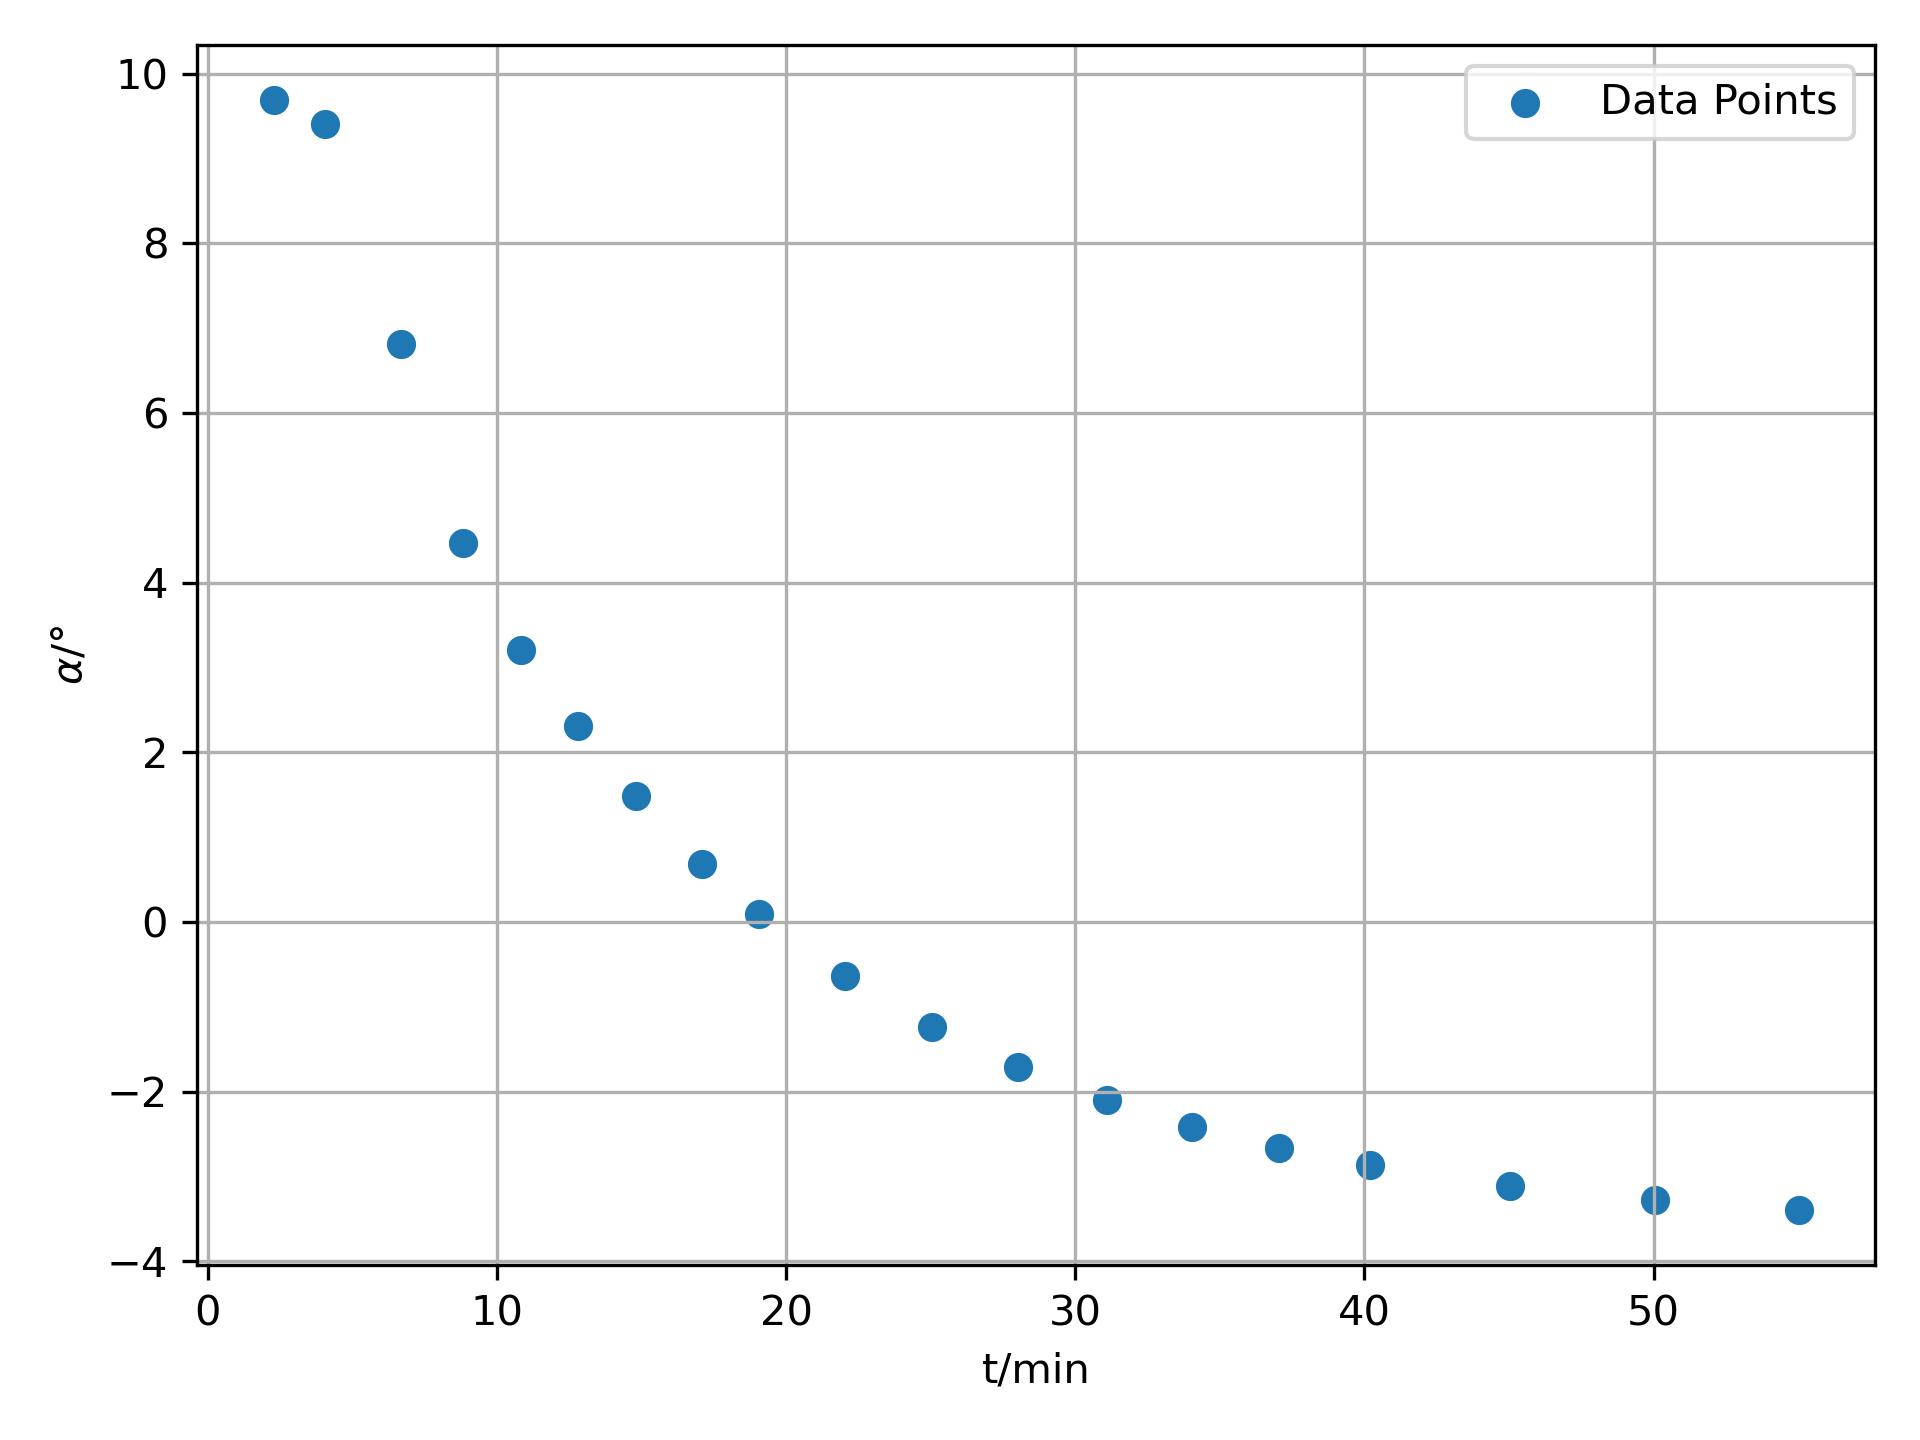
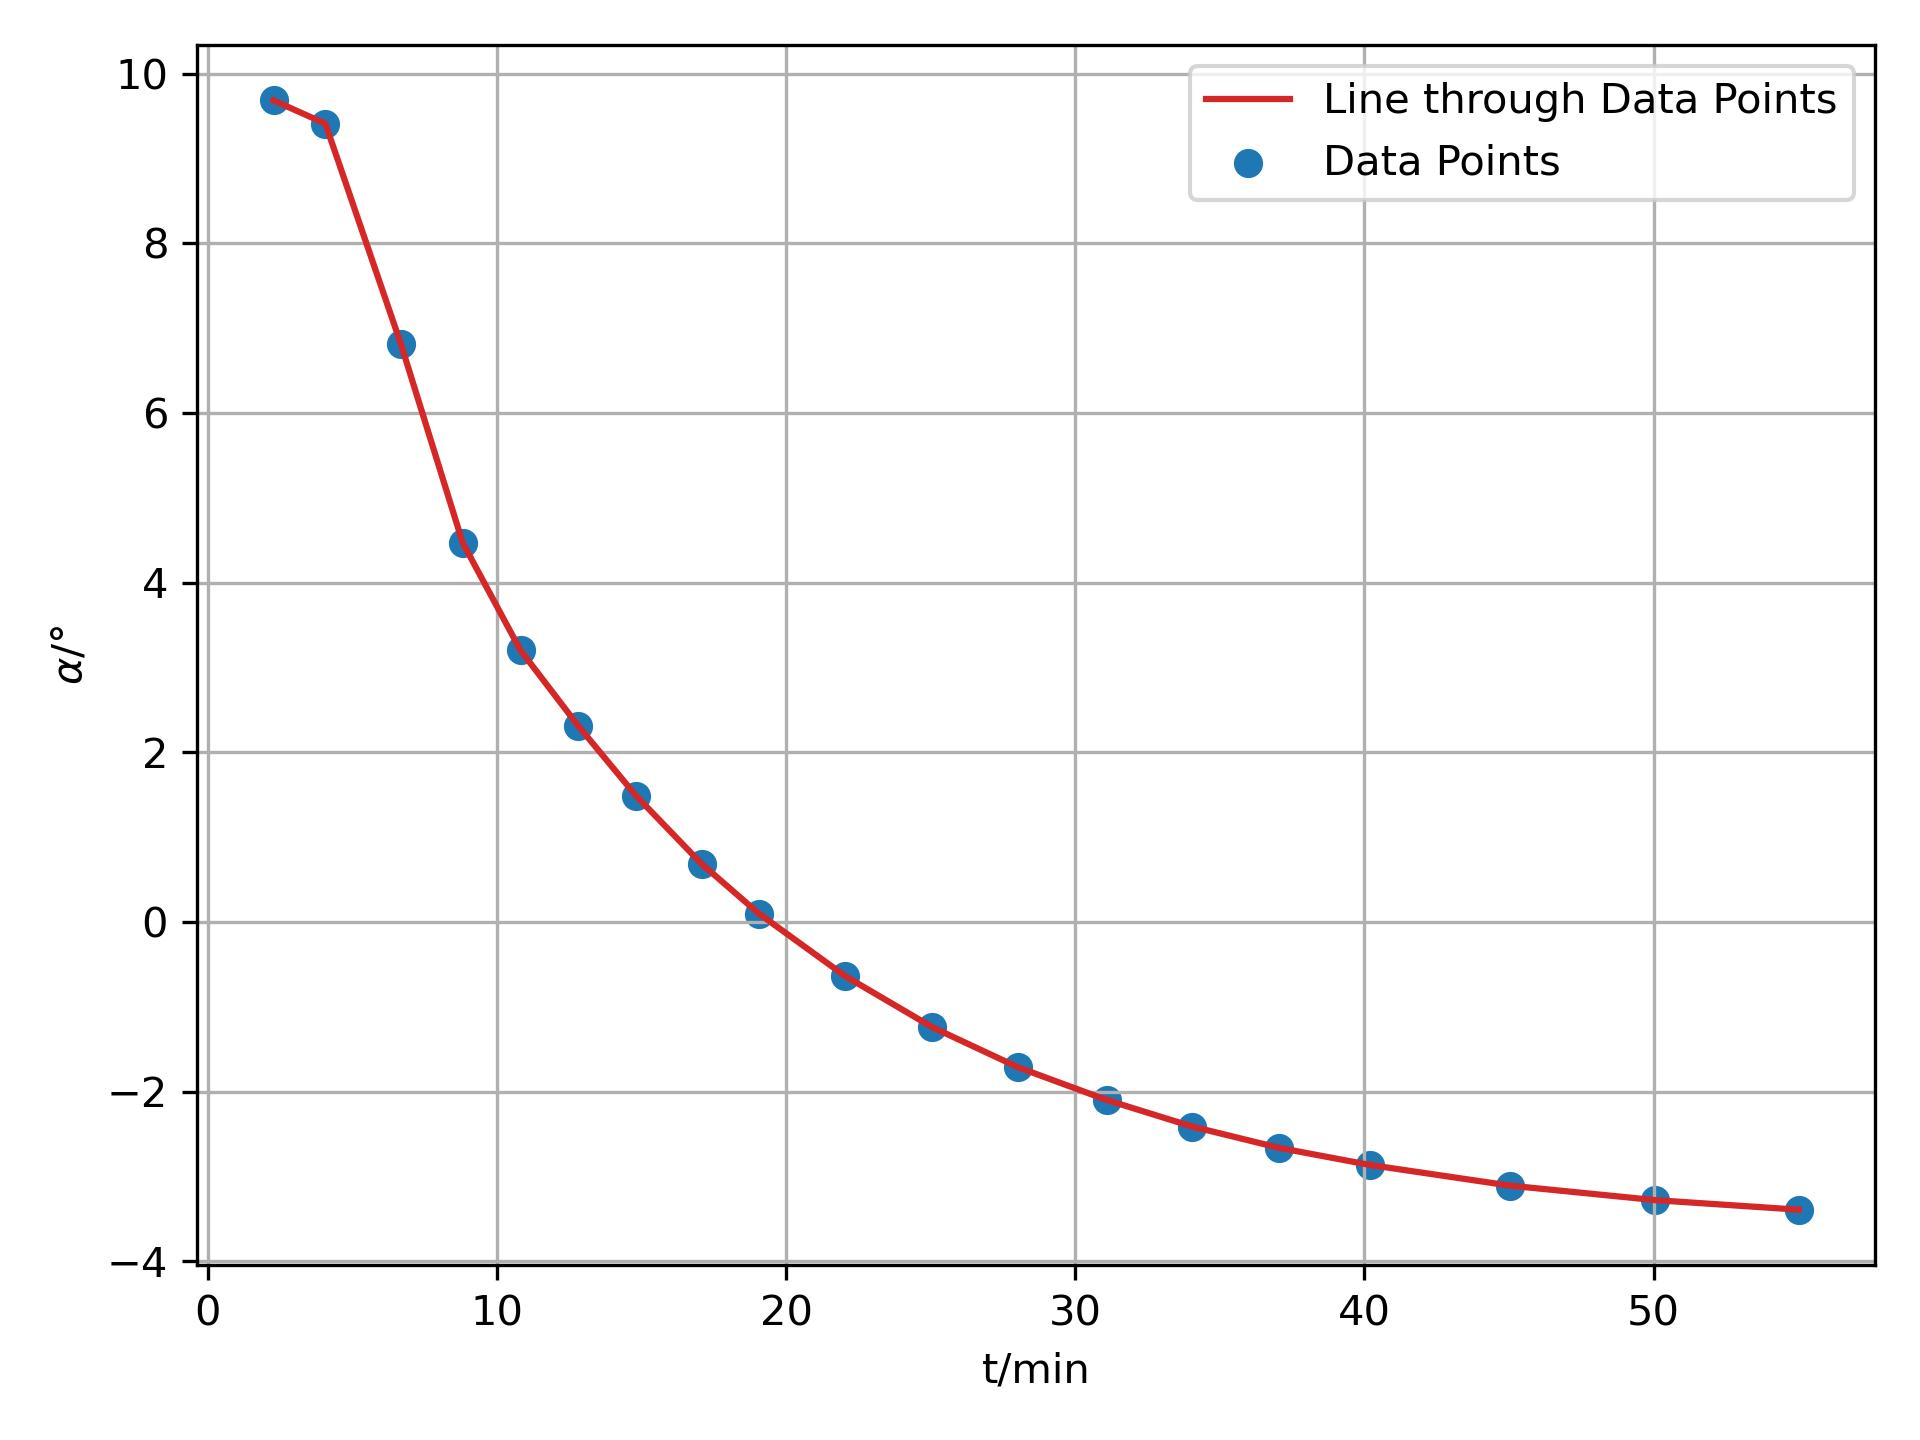
update

diff --git a/物理化学实验_生态环境系/蔗糖转化反应速率常数的测定/python/python_pic1.py b/物理化学实验_生态环境系/蔗糖转化反应速率常数的测定/python/python_pic1.py
@@ -28,6 +28,7 @@ lines = data.strip().split("\n")
 x, y = zip(*[map(float, line.split()) for line in lines])
 
 # 绘图
+plt.plot(x, y, color='tab:red', label='Line through Data Points')
 plt.scatter(x, y, color='tab:blue', label='Data Points')
 plt.xlabel('t/min')
 plt.ylabel(r'$\alpha$' + '/°')

diff --git a/物理化学实验_生态环境系/蔗糖转化反应速率常数的测定/matlab/matlab_pic1.m b/物理化学实验_生态环境系/蔗糖转化反应速率常数的测定/matlab/matlab_pic1.m
@@ -27,6 +27,8 @@ y = data(:, 2);
 
 % 绘图
 figure;
+plot(x, y, '-r', 'DisplayName', 'Line through Data Points');
+hold on; % 保持当前图形
 scatter(x, y, 'blue', 'DisplayName', 'Data Points');
 xlabel('t/min');
 ylabel('\alpha/°');
